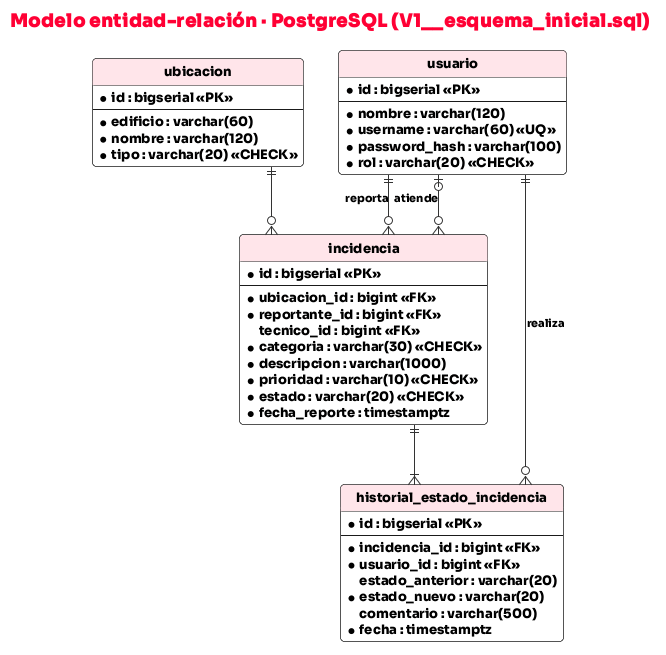
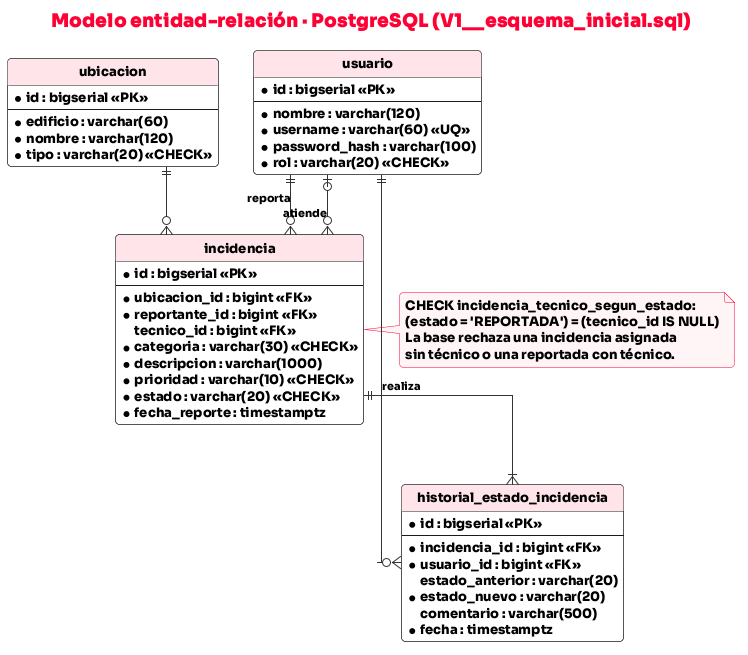
docs: diagramas de componentes y ER ajustados a la implementación; registro de cambios

Changed region(s): [[0.0, 0.0, 0.991, 0.6718], [0.5105, 0.7023, 0.8709, 0.9771]]

diff --git a/docs/03-cambios.md b/docs/03-cambios.md
@@ -1,0 +1,19 @@
+# Ejercicio 3 · Diferencias entre el modelo y la implementación
+
+Al construir el prototipo aparecieron diferencias con los diagramas del Ejercicio 1. Algunas se resolvieron **actualizando el diagrama**, porque la implementación era la correcta. Otras son **decisiones de detalle** que el diagrama no tenía por qué mostrar y se dejan documentadas aquí. Ninguna cambia la arquitectura, el flujo obligatorio ni las reglas del caso.
+
+| # | Diferencia | Dónde se ve | Justificación | Acción |
+|---|---|---|---|---|
+| 1 | La base de datos impone que una incidencia en Reportada no tenga técnico y que en cualquier otro estado sí lo tenga (restricción `incidencia_tecnico_segun_estado`). | `V1__esquema_inicial.sql` | La regla de asignación (RN3) ya la cumplía el servicio, pero si solo vive en el código, un `UPDATE` manual puede romperla. Con la restricción, la base la garantiza aunque se salte la API. | Diagrama entidad-relación actualizado con una nota. |
+| 2 | Aparece `UserDetailsServiceImpl`, que carga al usuario por su username tanto en el login como en el filtro JWT. | `service/UserDetailsServiceImpl.java` | Spring Security necesita este componente para validar contraseñas y reconstruir al usuario del token. En el primer diagrama se había dado por implícito. | Diagrama de componentes actualizado. |
+| 3 | El frontend tiene un `roleGuard` que impide entrar a vistas de otro rol, por ejemplo un usuario abriendo `/coordinacion`. | `frontend/src/app/core/role.guard.ts` | Es solo experiencia de usuario. La protección real sigue en el backend (403), así que el guard no sustituye a la seguridad del servidor. | Diagrama de componentes actualizado. |
+| 4 | Se quitó el bean `AuthenticationProvider` que traía el proyecto de referencia (`login-service`). | `config/SecurityConfig.java` | Spring Security 7 arma el mismo proveedor a partir de `UserDetailsService` y `PasswordEncoder`, y con el bean explícito emitía una advertencia. El comportamiento no cambia. | Solo se documenta. |
+| 5 | Si el coordinador no escribe comentario al asignar, el historial guarda «Asignada a {técnico}». | `IncidenciaService.asignar()` | El seguimiento debe decir a quién se asignó. El técnico actual vive en la incidencia, pero el historial es la bitácora que lee el usuario. | Solo se documenta (las secuencias no bajan a ese nivel). |
+| 6 | La descripción exige entre 10 y 1000 caracteres. | `IncidenciaRequestDto` | El caso solo pide que la descripción exista. El mínimo evita reportes vacíos de contenido, como «no sirve». | Documentado en el análisis (RN1). |
+| 7 | Un valor de enum desconocido (por ejemplo `"categoria": "XX"`) o un JSON mal formado responden 400, igual que un campo faltante. | `exception/ExceptionHandler.java` | Para quien consume la API, las dos son entradas inválidas; un 500 confundiría. | Solo se documenta. |
+| 8 | Las fechas se guardan y se devuelven en UTC con precisión de microsegundos, y el frontend las muestra en hora local de México. | `util/DatetimeUtil.java` | Sin este ajuste, la respuesta del POST traía la hora local con nanosegundos y la del GET la traía en UTC con microsegundos, así que la misma incidencia parecía tener dos fechas. | Solo se documenta. |
+| 9 | Los puertos son 8081 para el backend y 5433 para Postgres, en lugar de los habituales 8080 y 5432. | `application.yaml`, `compose.yaml` | En el equipo de desarrollo los puertos por defecto ya estaban ocupados por otros servicios. | Diagrama de despliegue (ya los usaba). |
+
+## Diagramas sin cambios
+
+Casos de uso, clases, estados y las dos secuencias corresponden a la implementación tal como se modelaron. Los nombres de clases, métodos, endpoints y códigos HTTP que aparecen en ellos existen en el código; la matriz final (`04-matriz-final.md`) da la línea exacta de cada uno.
